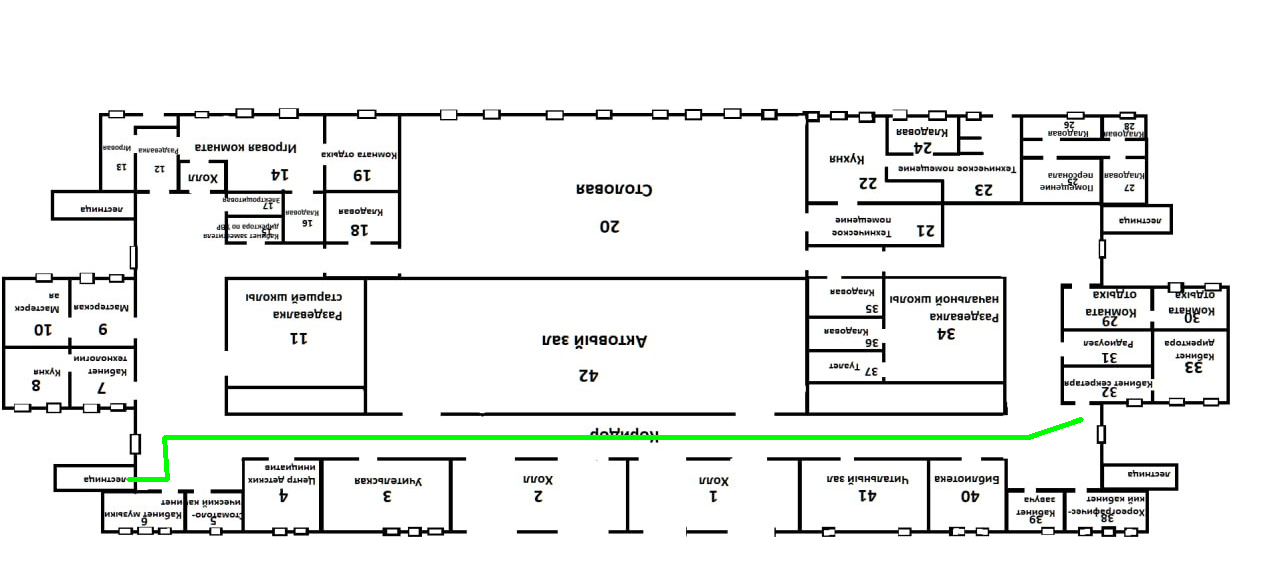
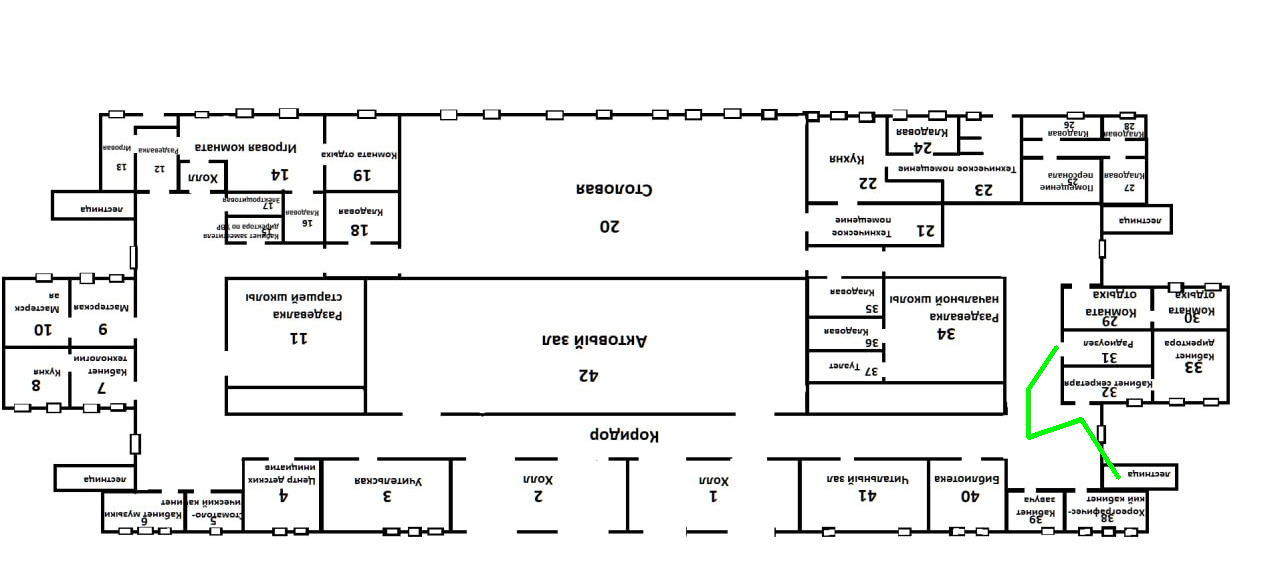
Nearby points update

Changed region(s): [[0.0938, 0.6462, 0.8125, 0.8308], [0.8438, 0.7385, 0.875, 0.8], [0.8125, 0.5846, 0.8438, 0.6154]]

diff --git a/modules/function.py b/modules/function.py
@@ -151,7 +151,7 @@ def get_room_number(start_room, end_room, address, room_level, d):
     if end_room != "" and start_room != "":
 
         d = {}
-        with open(f"/home/egor/Work/Room-navigation/building/school_3/text/text_level_1.txt", encoding="utf-8") as file:
+        with open(f"/home/egor/Work/Room-navigation/building/{address}/text/text_level_{room_level}.txt", encoding="utf-8") as file:
             for line in file:
                 key, *value = line.split()
                 d[key] = value
@@ -259,13 +259,13 @@ def checking_nearby_points(start, end, room_level, address):
             d[key] = value
 
 
-    end = get_room_number(end, "", "", "", d)
+    end = get_room_number(end, "", address, room_level, d)
 
     value = {}
 
     while True:
         try:
-            test = get_room_number(start, "", "", "", d)
+            test = get_room_number(start, "", address, room_level, d)
             value[test] =  test
             del d[str(test)]
         except KeyError:
